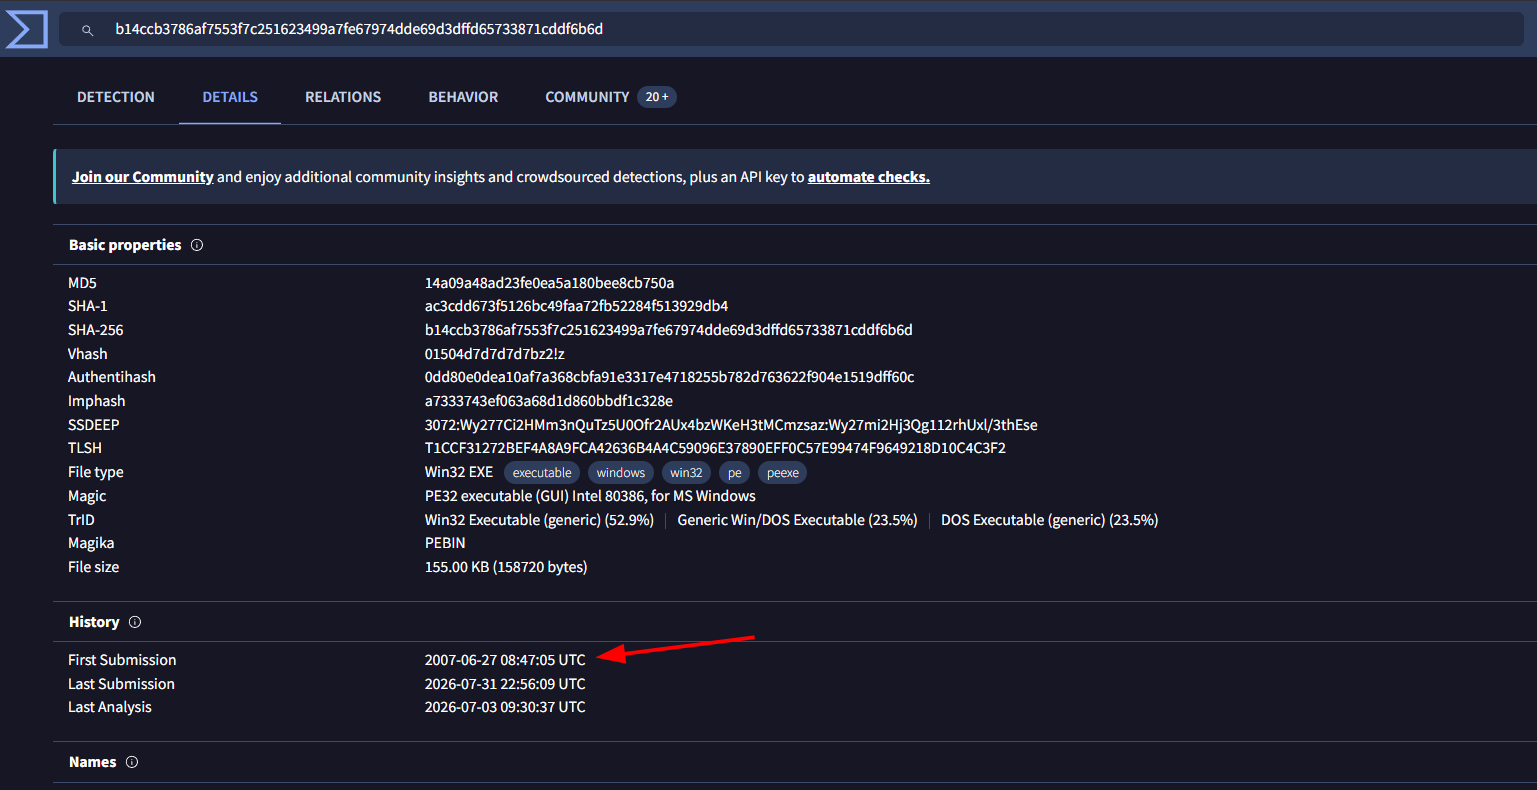
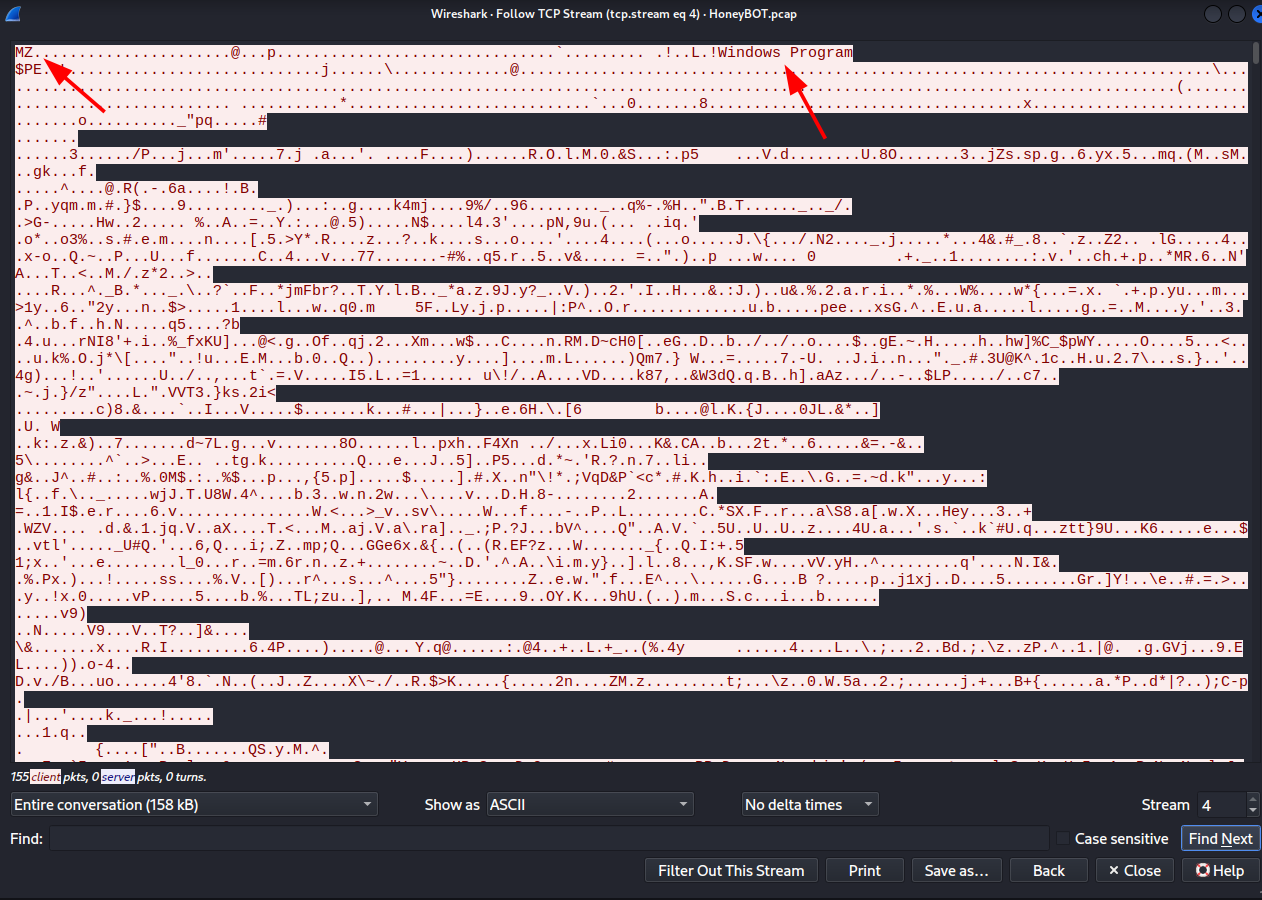
HoneyBOT P2

diff --git a/blue-team/HoneyBOT/README.md b/blue-team/HoneyBOT/README.md
@@ -17,18 +17,17 @@ What is the attacker's IP address?
 Before we start investigating the frames directly, I like to check the statistics, as sometimes we can deduce who the attacker is just by looking at the frame rate or the ports it uses.
 
 
-
 ![q1-0](./screenshots/q1-0.png)
 
 ![q1](./screenshots/q1.png)
 
-This time, from the summary alone we cannot be completly sure about who the attacker is, although we know that there are only 2 IP addresses.
+This time, from the summary alone we cannot be completely sure about who the attacker is, although we know that there are only 2 IP addresses.
 
 Investigating the file,we quickly notice some malicious behavior from the IP "98.114.205.102".  
 
-This IP address starts a SMB comunication, and it authenticates with an anonimous session using "/".  
+This IP address starts an SMB communication, and it authenticates with an anonymous session using "/".  
 
-If this was not enought, it also creates two paths, /ipc and /lsarpc. At the end, a duplicated ACK warning is sended probably because the channel is congested.
+If this was not enough, it also creates two paths, /ipc and /lsarpc. At the end, a duplicate ACK warning is sent probably because the channel is congested.
 
 
 ![q1-1](./screenshots/q1-1.png)
@@ -38,22 +37,22 @@ If this was not enought, it also creates two paths, /ipc and /lsarpc. At the end
 ## Q2
 What is the target's IP address?
 
-As there are only two IP addresses, the other one is clearly the target "192.150.11.111".
+Since there are only two IP addresses, the other one is clearly the target "192.150.11.111".
 
 ## Q3
 Provide the country code for the attacker's IP address (a.k.a geo-location).
 
-We can easly find this using an online IP geolocation tool such as "whatismyipaddress.com".
+We can easily find this using an online IP geolocation tool such as "whatismyipaddress.com".
 
 ![q3](./screenshots/q3.png)
 
-The country is United States ("us" code).
+The country is the United States ("us" code).
 
 
 ## Q4
 How many TCP sessions are present in the captured traffic?
 
-We can find the amount of TCP sessions on the Conversations summary.
+We can find the number of TCP sessions in the Conversations summary.
 
 ![q4](./screenshots/q4.png)
 
@@ -64,7 +63,7 @@ As seen in the capture above, we have 5 distinct TCP sessions.
 ## Q5
 How long did it take to perform the attack (in seconds)?
 
-To obtain the total duration of the capture we can use the capture file properties
+To obtain the total duration of the capture, we can use the capture file properties.
 
 ![q5](./screenshots/q5.png)
 
@@ -76,7 +75,7 @@ The duration of the attack is 16 seconds.
 ## Q6
 Provide the CVE number of the exploited vulnerability.
 
-To search for the specific CVE, we have to find the key components of the attack. Investigating the capture, we find a common protocol for Windows exploitation "DSSTUP" and the request of "DsRoleUpgradeDownlevelServer".   
+To search for the specific CVE, we have to find the key components of the attack. Investigating the capture, we find a common protocol for Windows exploitation "DSSETUP" and the request for "DsRoleUpgradeDownlevelServer".   
 
 ![q6](./screenshots/q6.png)
 
@@ -92,33 +91,74 @@ We already know that the protocol used is SMB.
 ## Q8
 Which protocol did the attacker use to download additional malicious files to the target system?
 
-Following one of the tcp streams we find out the name of the malicious file is "ssms.exe" and the protocol used to transfer the file is "ftp"
+Following one of the TCP streams we find out that the name of the malicious file is "ssms.exe" and the protocol used to transfer the file is "FTP"
 
 ![q8](./screenshots/q8.png)
 
 ## Q9
 What is the name of the downloaded malware?
 
-As stated before, the name of the malicious file is "ssms.exe"
+As stated before, the name of the malicious file is "ssms.exe".
 
 ## Q10
 The attacker's server was listening on a specific port. Provide the port number.
 
-In the same capture we can see the attacker opening a server using the "8884" port.
+In the same capture we can see the attacker opening a server using port 8884.
 
 ![q10](./screenshots/q10.png)
 
 ## Q11
 When was the involved malware first submitted to VirusTotal for analysis? Format: YYYY-MM-DD
 
-To search on VirusTotal, we need the hash of the malware. Knowing the CVE, this can be done with a quick search on the Internet.
+To search on VirusTotal, we need the hash of the malware. To obtain it, first we have to locate the file in Wireshark.  
 
 
 ![q11](./screenshots/q11.png)
 
-With the obtained hash "14A09A48AD23FE0EA5A180BEE8CB750A", finding the first submission on VirusTotal is easy.
+Following the tcp stream, we find a tcp handshake started by the attacker on port 2152. Not only that, but it also shows "Unknown" on Wireshark, meaning it isn't following the socket standard communication. Therefore, it's likely to be transferring the malicious file we were searching for.
 
 ![q11-1](./screenshots/q11-1.png)
 
+![q11-2](./screenshots/q11-2.png)
+
+With the raw data, we can use the command md5sum to obtain the hash:"14A09A48AD23FE0EA5A180BEE8CB750A".Having the hash, finding the first submission on VirusTotal is easy.
+
+![q11-3](./screenshots/q11-3.png)
+
 ## Q12
 What is the key used to encode the shellcode?
+
+A shellcode is a low-level binary code injected into memory (RAM). It is usually transferred along with its encoding key at the start of the shellcode.
+
+Following the tcp stream at the start, we find a suspicious payload before many x90 (NOP instructions), a technique used to abuse the memory buffer and increase the chances of executing the malicious code.
+
+![q12](./screenshots/q12.png)
+
+As we know, the key is commonly at the start of the shellcode, without encryption so it can be read and executed by the victim.
+
+To obtain the key, we will use rasm2, taking the first part of the hex dump data to decode it.
+
+![q12-1](./screenshots/q12-1.png)
+
+As we can see from the capture, it uses xor to decode it and the key is 0x99.
+
+## Q13
+What is the port number the shellcode binds to?
+
+To obtain the instructions, we will use sctest after sanitizing the binary with xxd.
+
+```
+xxd -p shellcode.bin | grep 'eb10' -A 1000 | xxd -r -p > shellcode
+sctest -S -s 10000 -vv < shellcode
+```
+
+Now that we have the code, finding the port used is easy.
+
+![q13](./screenshots/q13.png)
+
+The port is:1957
+
+## Q14
+The shellcode used a specific technique to determine its location in memory. What is the OS file being queried during this process?
+
+The shellcode uses "GetProcAddress" multiple times. Since GetProcAddress is part of "kernel32.dll" we have found our OS file.
